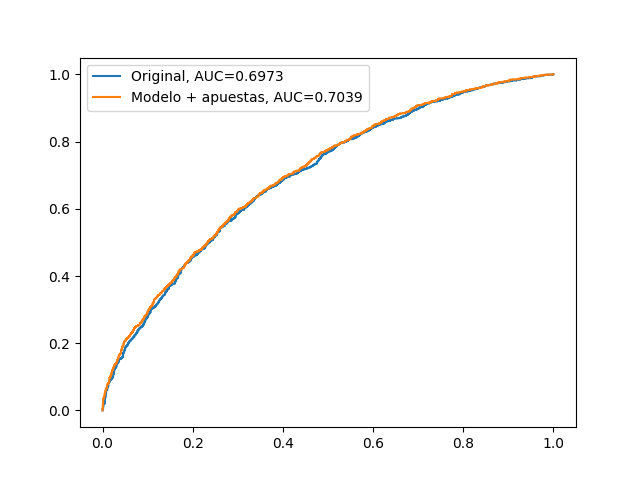
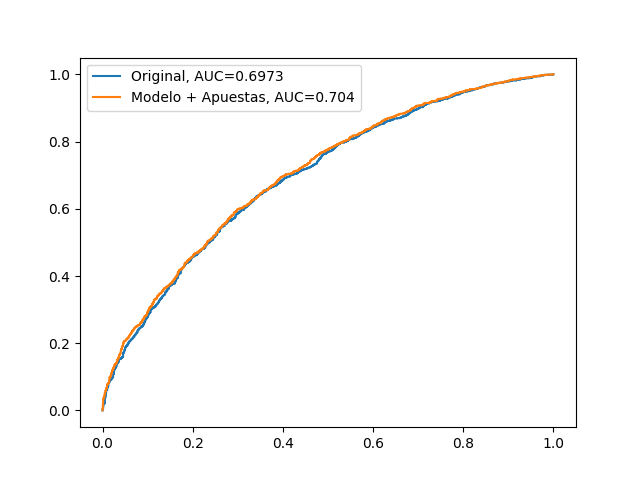
final test?
no se pq hago esto en vd

diff --git a/kelly_criterion.py b/kelly_criterion.py
@@ -1,19 +1,27 @@
 import numpy as np
 import pandas as pd
+import matplotlib.pyplot as plt
 
 seasons = ['201516', '201617', '201718']
 model = 'Team_Model'
 book_names = ['Pinnacle Sports', '5Dimes', 'Bookmaker', 'BetOnline', 'Bovada', 'Heritage', 'Intertops', 'YouWager', 'JustBet']
+book_names = ['5Dimes']
 
 for book in book_names:
+    wins = 0
+    losses = 0
     cont = 0
     start = 100
+    pct_win = []
+    pct_loss = []
+    evo = [100]
+    plt.clf()
     for season in seasons:
 
         # Cargamos los datos
-        test = np.load('combination/results/' + model +'/test_' + season + '.npy')
-        pred = np.load('combination/results/' + model +'/pred_' + season + '.npy')
-        proba = np.load('combination/results/' + model +'/proba_' + season + '.npy')
+        test = np.load('combination/results/' + model +'/comp/logreg/test_' + season + '.npy')
+        pred = np.load('combination/results/' + model +'/comp/logreg/pred_' + season + '.npy')
+        proba = np.load('combination/results/' + model +'/comp/logreg/proba_' + season + '.npy')
         bets = pd.read_csv('bets/nba_betting_money_line.csv', low_memory=False)
         games = pd.read_csv('combination/csv/entry_data/team_entry/entry_data_' + season + '.csv', low_memory=False)
 
@@ -57,16 +65,15 @@ for book in book_names:
             # Actualizamos el estado de la cartera
             if kc > 0:
                 if result == 1:
+                    wins += 1
+                    pct_win += [kc]
                     start += start*abs(kc)*h_decimal_odds
                 else:
+                    losses += 1
+                    pct_loss += [kc]
                     start -= start*abs(kc)
 
-            elif kc < 0:
-                if result == 0:
-                    start += start*abs(kc)*a_decimal_odds
-                else:
-                    start -= start*abs(kc)
-
+            evo += [start]
             # Si nos quedamos sin dinero, paramos
             if start < 0.1:
                 break
@@ -74,4 +81,19 @@ for book in book_names:
             cont+=1
             
     # Imprimimos los resultados 
-    print(start, book, cont)
+    mean_win = np.mean(pct_win)
+    mean_loss = np.mean(pct_loss)
+    print(start, book, cont, wins, mean_win, losses, mean_loss)
+
+    """
+    indices = range(1, len(evo) + 1)
+    plt.plot(indices, evo, '-')
+    plt.xlabel('Partidos')
+    plt.ylabel('Ganancias')
+
+    # Establecer título del gráfico
+    plt.title('Evolución de las ganancias con ' + book)
+
+    # Mostrar el gráfico
+    plt.show()
+    """

diff --git a/combination/team_model.py b/combination/team_model.py
@@ -73,7 +73,7 @@ seasons = ['201314', '201415']
 # Temporada a predecir
 predict_season = '201516'
 model_folder = 'results/Team_Model/comp/'
-folder = 'csv/entry_data/team_entry/'
+folder = 'csv/entry_data/'
 matrices_og_c = []
 
 for season in seasons:
@@ -208,9 +208,12 @@ for model in accuracy[0].keys():
 
     #np.save(model_folder + 'svm/test_' + predict_season + '.npy', y_test)
     #np.save(model_folder + 'svm/pred_' + predict_season + '.npy', y_pred)
-    np.save(model_folder + 'logreg/test_' + predict_season + '.npy', y_test)
-    np.save(model_folder + 'logreg/pred_' + predict_season + '.npy', y_pred)
+    #np.save(model_folder + 'logreg/test_' + predict_season + '.npy', y_test)
+    #np.save(model_folder + 'logreg/pred_' + predict_season + '.npy', y_pred)
+    np.save(model_folder + 'bets/test_' + predict_season + '.npy', y_test)
+    np.save(model_folder + 'bets/pred_' + predict_season + '.npy', y_pred)
 
 y_proba = np.concatenate(proba_tot)
 #np.save(model_folder + 'svm/proba_' + predict_season + '.npy', y_proba)
-np.save(model_folder + 'logreg/proba_' + predict_season + '.npy', y_proba)
+#np.save(model_folder + 'logreg/proba_' + predict_season + '.npy', y_proba)
+np.save(model_folder + 'bets/proba_' + predict_season + '.npy', y_proba)

diff --git a/combination/get_roc.py b/combination/get_roc.py
@@ -15,11 +15,11 @@ from sklearn.metrics import PrecisionRecallDisplay
 import numpy as np
 import pandas as pd
 
-seasons = ['201617', '201718', '201819']
+#seasons = ['201617', '201718', '201819']
 seasons = ['201516', '201617', '201718']
 folder = 'Team_Model/comp/'
 models = ['Team_Model/comp/logreg', 'Team_Model/comp/bets']
-names = ['Original', 'Modelo + apuestas']
+names = ['Original', 'Modelo + Apuestas']
 
 for model, name in zip(models, names):
     test = []
@@ -34,6 +34,7 @@ for model, name in zip(models, names):
     pred = np.concatenate(pred)
     proba = np.concatenate(proba)
 
+    print(classification_report(test, pred))
     print('Accuracy:', accuracy_score(test, pred))
     print(f'F1: {f1_score(test, pred)}')
     print(f'Average precision score: {average_precision_score(test, pred)}')

diff --git a/combination/entry_team_matrix.py b/combination/entry_team_matrix.py
@@ -168,7 +168,7 @@ def add_bookmaker_odds(df):
     """
     
     bets = pd.read_csv('csv/bets/nba_betting_money_line.csv', low_memory=False)
-    df['H_BOOKMAKER_WIN'] = -150
+    df['H_BOOKMAKER_WIN'] = 0
     book = '5Dimes'
     for game_id in df['GAME_ID']:
 
